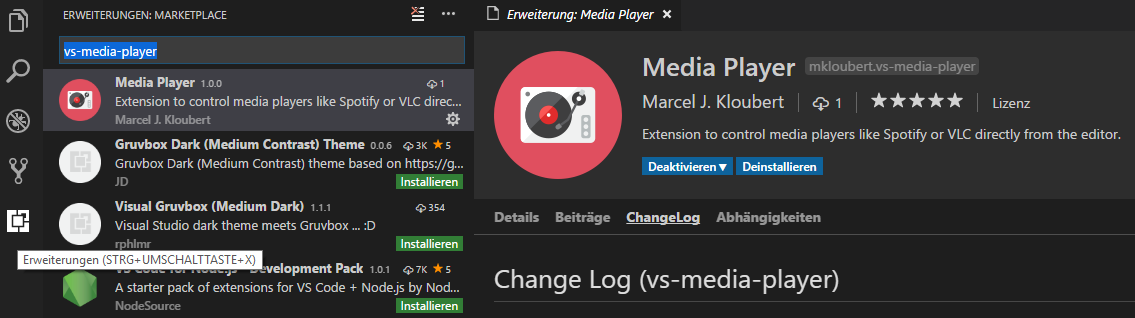
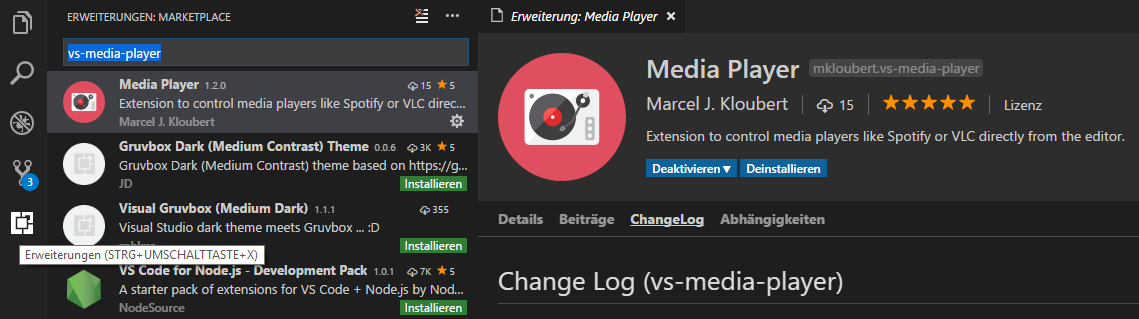
updated README

diff --git a/README.md b/README.md
@@ -236,6 +236,7 @@ Press `F1` to open the list of commands and enter one of the following commands:
 | `Media Player: Disconnect` | Disconnects from a player. | `extension.mediaPlayer.disconnect` | 
 | `Media Player: Execute player action` | Executes a player action | `extension.mediaPlayer.executePlayerAction` | 
 | `Media Player: Register app for Spotify` | Opens the web page where a new app can be registrated. | `extension.mediaPlayer.spotify.registerApp` | 
+| `Media Player: Search` | Search for a track inside a player. | `extension.mediaPlayer.search` | 
 | `Media Player: Select item of playlist` | Selects an item of a playlist. | `extension.mediaPlayer.selectItemOfPlaylist` | 
 | `Media Player: Select output` | Selects an output device for a player. | `extension.mediaPlayer.selectPlayerOutput` | 
 

diff --git a/CHANGELOG.md b/CHANGELOG.md
@@ -1,6 +1,6 @@
 # Change Log (vs-media-player)
 
-## 1.2.0 (July 30th, 2017; track search)
+## 1.2.1 (July 30th, 2017; track search)
 
 * can search for tracks now
 
